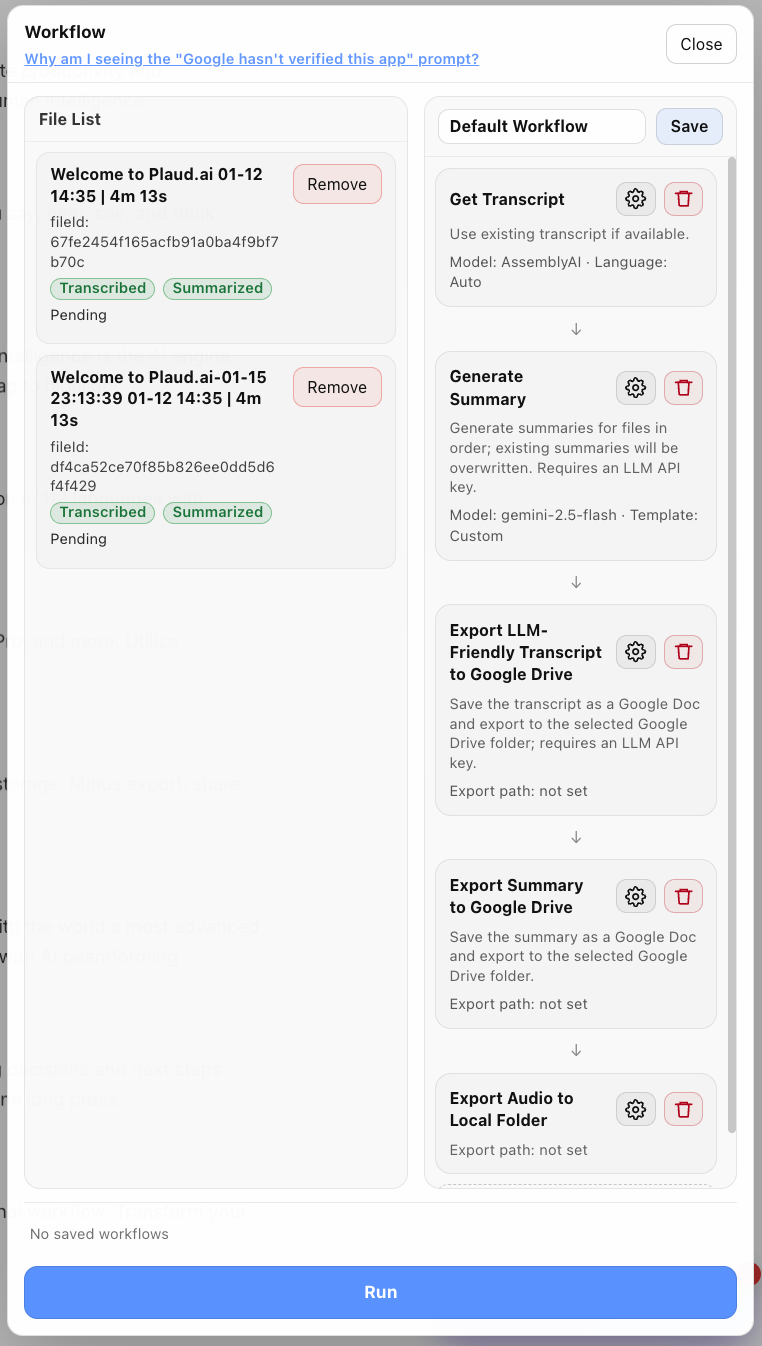
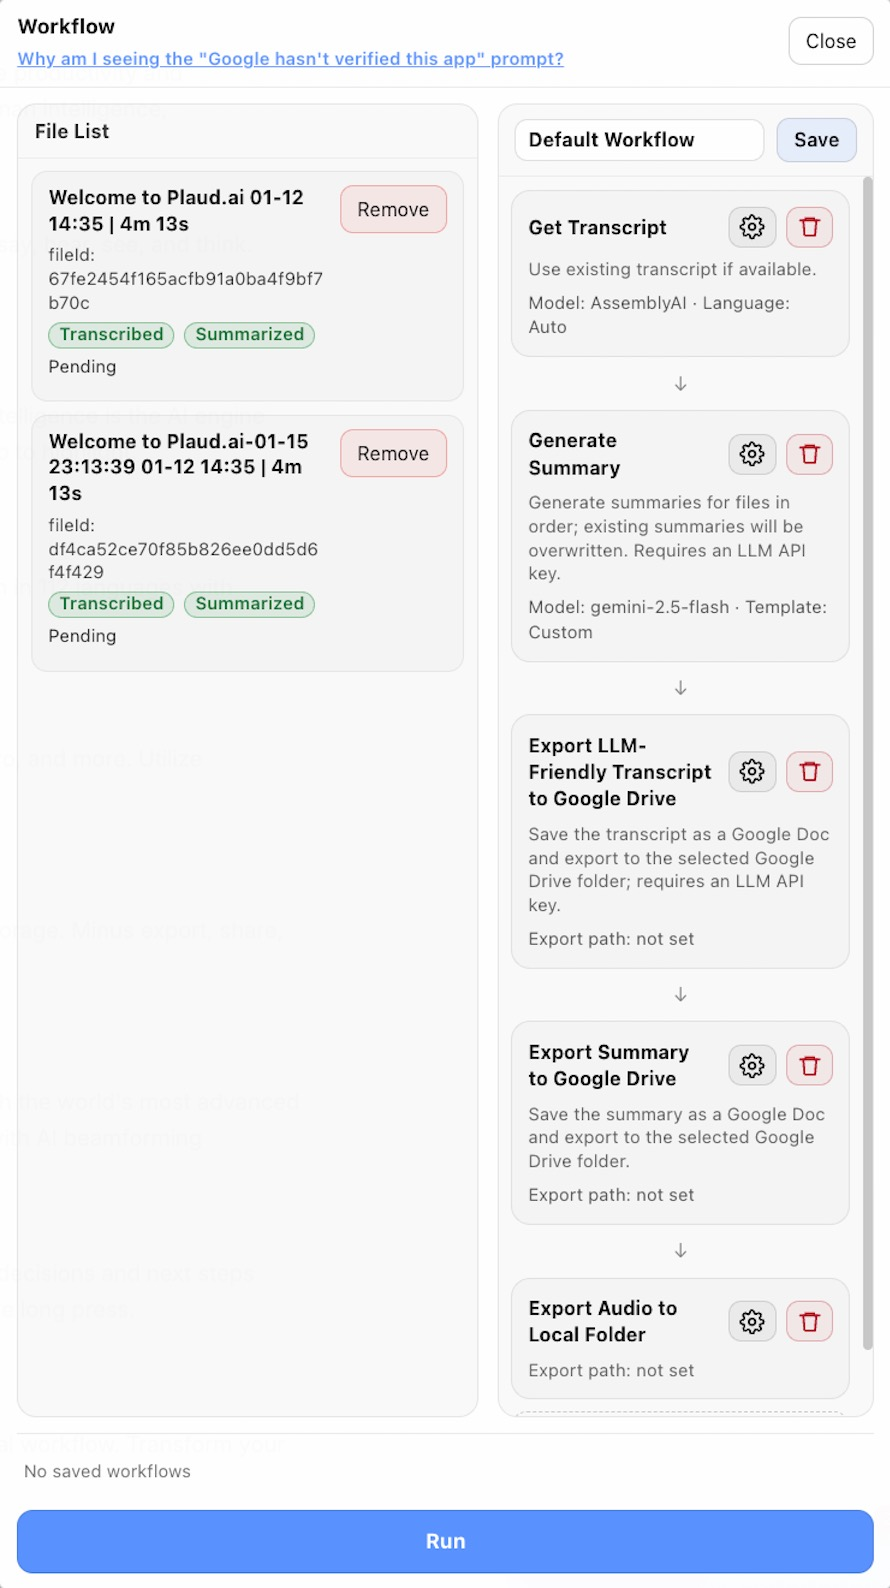
update

diff --git a/index.html b/index.html
@@ -4,6 +4,142 @@
   <meta charset="utf-8" />
   <title>AudioBridge</title>
   <meta name="viewport" content="width=device-width, initial-scale=1" />
+  <style>
+    :root {
+      color-scheme: light;
+      --bg: #f4f6fb;
+      --text: #0b1220;
+      --muted: #475467;
+      --line: #e4e7ec;
+      --accent: #111827;
+      --glow-1: #4f46e5;
+      --glow-2: #06b6d4;
+    }
+
+    * {
+      box-sizing: border-box;
+    }
+
+    body {
+      margin: 0;
+      font-family: "Helvetica Neue", "PingFang SC", "Microsoft YaHei", Arial, sans-serif;
+      background: radial-gradient(circle at 20% 10%, rgba(79, 70, 229, 0.08), transparent 45%),
+        radial-gradient(circle at 80% 0%, rgba(6, 182, 212, 0.08), transparent 40%),
+        var(--bg);
+      color: var(--text);
+    }
+
+    .page {
+      min-height: 100vh;
+      height: 100vh;
+      display: flex;
+      align-items: center;
+      justify-content: center;
+      padding: 72px 6vw;
+      position: relative;
+      overflow: hidden;
+    }
+
+    .brand {
+      position: absolute;
+      top: 32px;
+      left: 6vw;
+      font-weight: 700;
+      font-size: 20px;
+      letter-spacing: 0.06em;
+      text-transform: uppercase;
+    }
+
+    .hero {
+      width: 100%;
+      max-width: 1240px;
+      display: grid;
+      grid-template-columns: 1.1fr 0.9fr;
+      gap: 56px;
+      align-items: start;
+      height: 100%;
+    }
+
+    .content {
+      align-self: center;
+    }
+
+    .tagline {
+      margin: 0 0 40px;
+      font-size: clamp(24px, 4vw, 42px);
+      font-weight: 700;
+      line-height: 1.3;
+      color: var(--text);
+    }
+
+    .actions {
+      display: flex;
+      gap: 16px;
+      flex-wrap: wrap;
+    }
+
+    .btn {
+      display: inline-flex;
+      align-items: center;
+      gap: 8px;
+      padding: 12px 22px;
+      border-radius: 999px;
+      border: 1px solid var(--accent);
+      text-decoration: none;
+      font-weight: 600;
+      color: var(--accent);
+      transition: transform 0.2s ease, box-shadow 0.2s ease, background 0.2s ease;
+    }
+
+    .btn.primary {
+      background: var(--accent);
+      color: #ffffff;
+      border-color: var(--accent);
+      box-shadow: 0 10px 30px rgba(17, 24, 39, 0.2);
+    }
+
+    .btn:hover {
+      transform: translateY(-1px);
+      box-shadow: 0 12px 24px rgba(17, 24, 39, 0.12);
+    }
+
+    .meta {
+      margin-top: 28px;
+      font-size: 14px;
+      color: #98a2b3;
+    }
+
+    .visual {
+      position: relative;
+      width: 100%;
+      height: auto;
+      overflow: visible;
+      display: flex;
+      align-items: center;
+      justify-content: center;
+      align-self: center;
+    }
+
+    .visual img {
+      width: auto;
+      max-width: 100%;
+      max-height: 72vh;
+      border-radius: 12px;
+      box-shadow: 0 28px 70px rgba(16, 24, 40, 0.18);
+      object-fit: contain;
+    }
+
+    @media (max-width: 900px) {
+      .hero {
+        grid-template-columns: 1fr;
+        gap: 36px;
+      }
+
+      .visual {
+        height: min(360px, 70vw);
+      }
+    }
+  </style>
 
   <!-- Google tag (gtag.js) -->
   <script async src="https://www.googletagmanager.com/gtag/js?id=G-T04W5G323N"></script>
@@ -16,22 +152,27 @@
   </script>
 </head>
 <body>
-  <h1>AudioBridge</h1>
-
-  <p>
-    AudioBridge is a browser extension for transcribing user-owned audio files.
-  </p>
-
-  <p>
-    <a href="https://github.com/audiobridge-ai/browser-extension">
-      View on GitHub
-    </a>
-  </p>
-
-  <p>
-    <a href="https://audiobridge-ai.github.io/browser-extension/privacy.html">
-      Privacy Policy
-    </a>
-  </p>
+  <main class="page">
+    <div class="brand">AudioBridge</div>
+    <section class="hero">
+      <div class="content">
+        <p class="tagline">
+          Turning audio into a first-class citizen in your personal knowledge workflow.
+        </p>
+        <div class="actions">
+          <a class="btn primary" href="https://github.com/audiobridge-ai/browser-extension">
+            View on GitHub
+          </a>
+          <a class="btn" href="https://audiobridge-ai.github.io/browser-extension/privacy.html">
+            Privacy Policy
+          </a>
+        </div>
+        <div class="meta">Private by default. Built for your knowledge workflow.</div>
+      </div>
+      <div class="visual" aria-hidden="true">
+        <img src="images/audiobridge.png" alt="AudioBridge preview" />
+      </div>
+    </section>
+  </main>
 </body>
 </html>
